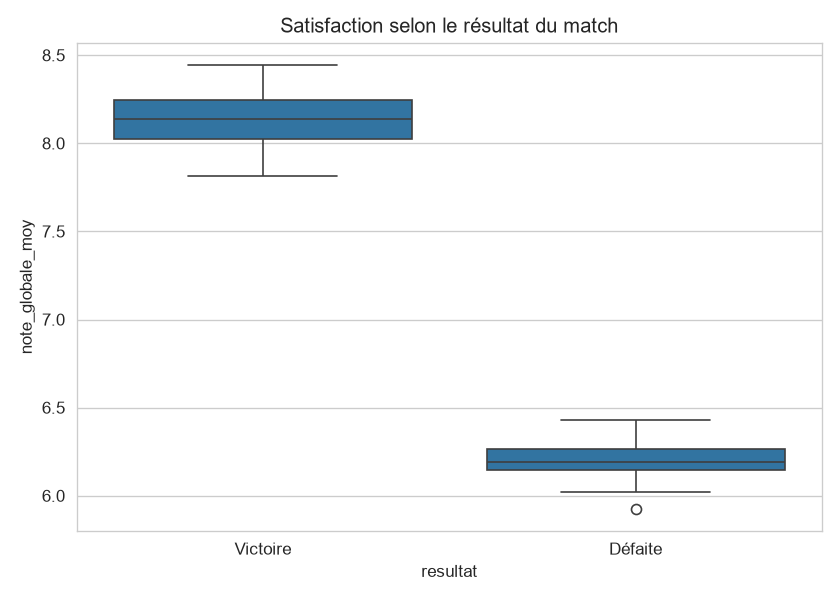
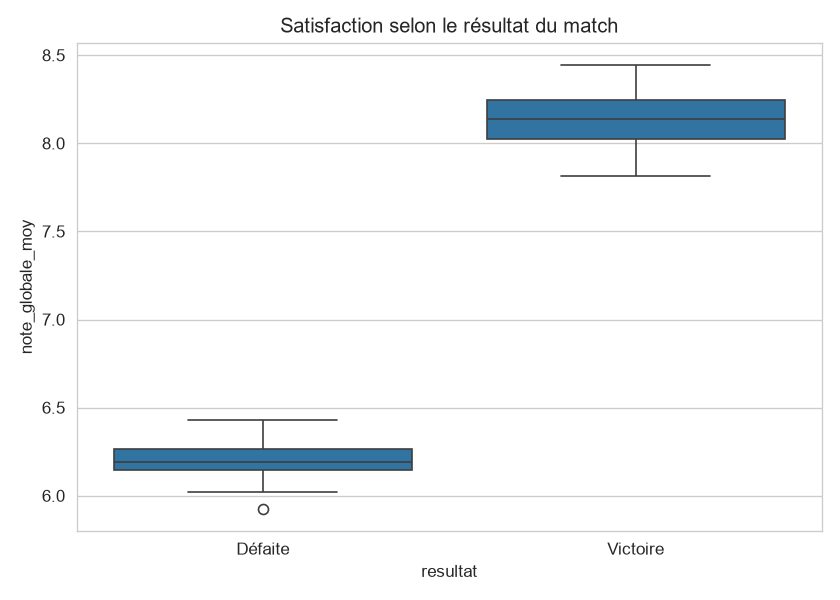
docs: finalize NOTES.md with digital funnel findings

diff --git a/NOTES.md b/NOTES.md
@@ -13,13 +13,23 @@ débouche sur des recommandations concrètes pour un dirigeant du club.
 ## Démarche
 
 1. Ingestion de toutes les sources fournies (billetterie, scans, boutique,
-   contacts, calendrier, résultats) + sources externes (météo, vacances
-   scolaires, classement EuroLeague) dans une architecture en couches
-   bronze / silver / gold (DuckDB).
+   contacts, calendrier, résultats, sessions/événements web, campagnes) +
+   sources externes (météo, vacances scolaires, classement EuroLeague,
+   population) dans une architecture en couches bronze / silver / gold
+   (DuckDB).
 2. Construction d'une table de faits `gold.fact_match` : une ligne par
    match à domicile (41 matchs), avec taux de remplissage, taux de
-   présence réelle, classement avant-match, contexte temporel et météo.
-3. Exploration statistique et visuelle (`analysis/exploration.ipynb`).
+   présence réelle, taux d'annulation, classement avant-match, contexte
+   temporel et météo.
+3. Exploration statistique et visuelle (`analysis/exploration.ipynb`, 13
+   sections), avec vérification systématique des hypothèses avant
+   conclusion (pas de corrélation acceptée sans test des explications
+   alternatives).
+4. Modèle de régression pour confirmer et quantifier les facteurs
+   identifiés, et analyse du funnel e-commerce / performance des
+   campagnes (branches `experiment/*`, mergées dans `main`).
+5. Dashboard autonome (`dashboard/dashboard.html`) synthétisant les
+   résultats pour un public non-technique.
 
 ## Chiffres clés
 
@@ -28,72 +38,123 @@ débouche sur des recommandations concrètes pour un dirigeant du club.
   (Betclic ÉLITE) 74.6%
 - **Facteur le plus discriminant : le classement de l'adversaire.** Le
   taux de remplissage chute nettement à mesure que l'adversaire est mal
-  classé (~90% face à un adversaire du haut du classement, ~65% face à un
-  adversaire en bas de tableau) — tendance nette sur les 41 matchs.
+  classé (~90% face à un top adversaire, ~65% face à un adversaire en bas
+  de tableau) : confirmé par le modèle de régression comme feature la
+  plus influente, de loin.
 - **Effet jour de semaine** : le dimanche est systématiquement le jour le
   plus faible (74.8% de moyenne sur 10 matchs), contre ~81-82% les mardis
   et jeudis.
 - **Effet vacances scolaires** (vérifié, pas un artefact de calendrier) :
-  les matchs joués pendant les vacances scolaires remplissent moins bien
-  (75.2%) que hors vacances (81%). Le rang moyen des adversaires est
-  comparable dans les deux groupes (9.6 vs 10.1) — l'effet n'est donc pas
-  expliqué par une programmation d'adversaires plus faibles pendant les
-  vacances.
+  75.2% pendant les vacances vs 81% hors vacances. Rang moyen des
+  adversaires comparable dans les deux groupes (9.6 vs 10.1).
+- **Météo : aucun effet mesurable** (corrélation 0.04 avec la température,
+  0.02 avec les précipitations).
+- **Horaire du match : pas un facteur indépendant.** Un écart apparent
+  après-midi/soirée s'est révélé confondu avec l'effet jour de semaine
+  (71% des matchs d'après-midi sont des dimanches).
+- **Annulations corrélées à la demande** (0.62) : les matchs à forte
+  affluence attendue génèrent proportionnellement plus d'achats annulés,
+  bien que l'ampleur reste modeste en absolu (0.2% à 1.8% du volume).
+- **Satisfaction expliquée par le résultat sportif, pas le remplissage** :
+  8.14/10 en victoire contre 6.20/10 en défaite. Le remplissage et la
+  satisfaction semblaient corrélés (-0.38) mais sont en réalité deux
+  conséquences distinctes du niveau de l'adversaire (la victoire étant
+  elle-même corrélée à -0.45 avec le remplissage).
+- **Géographie du bassin de fans** : les 18e et 19e arrondissements
+  affichent la plus forte pénétration (68 et 63 contacts pour 1000
+  habitants), cohérent avec la proximité de l'Adidas Arena. Plusieurs
+  communes de petite couronne (Poissy, Saint-Ouen, Villejuif) ressortent
+  aussi fortement.
+- **Modèle de régression (Ridge, LOO-CV)** : MAE de 8.3% (erreur relative)
+  — solide pour 41 observations. Confirme statistiquement que le
+  classement adversaire domine largement les autres features.
+- **Funnel digital et campagnes** : les canaux propriétaires (SMS,
+  newsletter, Google Ads payant) convertissent 3x mieux (~22.5%) que
+  l'organique et le social (~6.5-7%), malgré un volume de trafic bien
+  plus faible. Le SMS surperforme l'email en engagement (38.4%
+  d'ouverture, 34.5% de clic, contre 21.3%/22.6% pour l'email) tout en
+  convertissant aussi bien que la newsletter.
 
 ## Réponse à la question métier
 
 Les matchs qui sous-performent le plus nettement partagent un point commun
-clair : un adversaire mal classé au moment du match (ex. Dijon, Saint-Quentin,
-LDLC ASVEL Villeurbanne — tous entre 40% et 60% de remplissage). Le
-championnat national remplit structurellement moins bien que l'EuroLeague,
-et le dimanche ainsi que les périodes de vacances scolaires sont des
-créneaux à surveiller, indépendamment de la force de l'adversaire.
+clair : un adversaire mal classé au moment du match (ex. Dijon,
+Saint-Quentin, LDLC ASVEL Villeurbanne. Tous entre 40% et 60% de
+remplissage), confirmé à la fois par l'analyse descriptive et par un
+modèle statistique. Le championnat national remplit structurellement
+moins bien que l'EuroLeague, et le dimanche ainsi que les périodes de
+vacances scolaires sont des créneaux à surveiller, indépendamment de la
+force de l'adversaire. Trois enseignements complémentaires enrichissent
+le tableau : les matchs premium génèrent plus d'annulations (paradoxe du
+succès), la satisfaction du public dépend du résultat sportif et non du
+remplissage, et les canaux marketing propriétaires (SMS notamment)
+convertissent nettement mieux que l'acquisition organique/sociale : un
+levier digital directement activable pour les campagnes ciblées.
 
 ### Recommandations actionnables
 
-1. **Tarification dynamique par force d'adversaire** : envisager une
-   politique tarifaire plus agressive (promotions, offres groupées) pour
-   les matchs contre des adversaires classés au-delà de la 15e place, où
-   l'attractivité sportive seule ne suffit pas à remplir la salle.
+1. **Tarification dynamique par force d'adversaire** : politique tarifaire
+   plus agressive (promotions, offres groupées) pour les matchs contre des
+   adversaires classés au-delà de la 15e place.
 2. **Campagnes ciblées sur les dimanches et les périodes de vacances
-   scolaires** : ces créneaux sous-performent de façon récurrente et
-   indépendante du calendrier sportif — un axe marketing autonome plutôt
-   qu'un simple effet de programmation.
+   scolaires**, via SMS en priorité vu son meilleur taux d'engagement
+   (38.4% d'ouverture contre 21.3% pour l'email).
 3. **Capitaliser sur l'attrait EuroLeague** dans la communication et le
-   packaging des abonnements : l'écart de 8 points avec le championnat
-   suggère un effet de marque à exploiter davantage.
+   packaging des abonnements : écart de 8 points avec le championnat.
+4. **Politique d'annulation adaptée aux matchs à forte demande** :
+   envisager des frais d'annulation modulés ou une liste d'attente pour
+   récupérer les places libérées tardivement sur les matchs premium.
+5. **Marketing géolocalisé** : intensifier la présence dans les zones à
+   forte pénétration existante (nord-est parisien, Poissy, Saint-Ouen)
+   pour consolider la base, et cibler l'acquisition dans les zones à fort
+   potentiel démographique mais faible pénétration actuelle.
+6. **Concentrer le budget d'acquisition payante** sur les canaux à forte
+   conversion (SMS, newsletter, Google Ads) plutôt que sur l'élargissement
+   de l'audience organique/sociale, déjà large mais peu convertissante.
 
 ## Limites
 
-- **41 matchs seulement** : certains découpages (ex. par jour de semaine)
-  reposent sur de petits échantillons — un seul match un vendredi, par
-  exemple. Les tendances par compétition et par classement adversaire
-  sont plus robustes (15 à 19 matchs par groupe).
-- **L'effet "vacances scolaires" est observé et vérifié comme non expliqué
-  par le classement adversaire, mais sa cause reste ouverte** (moins
-  d'abonnés disponibles ? changement de profil de public ?) — une piste
-  pour une future analyse croisée avec les données de satisfaction ou de
-  profil des acheteurs.
+- **41 matchs seulement** : certains découpages reposent sur de petits
+  échantillons (un seul match un vendredi, par exemple). Le modèle de
+  régression sert surtout à confirmer et quantifier les facteurs déjà
+  identifiés par l'analyse descriptive, pas à prédire de façon fiable des
+  matchs hors de cette saison.
+- **Hypothèses testées et écartées, documentées par transparence** :
+  l'effet horaire (confondu avec le jour de semaine) et l'effet météo
+  (non significatif) ont été explorés puis abandonnés comme facteurs
+  explicatifs : inclus dans le notebook pour montrer la démarche complète,
+  pas seulement les résultats positifs.
+- **L'analyse satisfaction** porte sur ~7956 réponses `POST_MATCH`
+  uniquement (les enquêtes `GENERALE_MI_SAISON`/`GENERALE_FIN_SAISON`
+  n'ont pas de `match_id` et ne sont pas exploitables au niveau match).
+- **L'analyse géographique** couvre le bassin francilien : 25 codes
+  postaux sur 69 dans `silver.contacts` n'ont pas de correspondance dans
+  les référentiels de population (fans hors Île-de-France ou codes
+  fictifs issus des données de test).
+- **Le funnel digital concerne la boutique en ligne**, pas la billetterie
+  (deux systèmes de tracking distincts, GA4 vs plateforme de billetterie) :
+  les taux de conversion mesurés portent sur les achats de produits
+  dérivés, pas directement sur les billets de match.
 - **Qualité de données** : plusieurs anomalies détectées et corrigées dans
   le pipeline (2 fichiers billetterie JSON corrompus sur 358, 1 fichier
   scan sans en-tête, 1 fichier scan vide, formats de date multiples dans
-  contacts et boutique) — détail complet dans `docs/data_quality.md`.
+  contacts et boutique). Détail complet dans `docs/data_quality.md`.
   Toutes les corrections sont documentées et automatisées, aucune donnée
   n'a été estimée ou inventée pour combler un manque.
-- **Modèle de prédiction** : envisagé mais non prioritaire au vu du temps
-  disponible et de la taille de l'échantillon (41 matchs) — les
-  corrélations observées ici (classement adversaire notamment) sont deja
-  fortes et interprétables sans modèle, ce qui limite le gain d'un modèle
-  formel pour ce livrable.
 
 ## Usage de l'IA
 
-Claude (Anthropic) a été utilisé tout au long du projet : conception de
-l'architecture (médaillon bronze/silver/gold), écriture et débogage des
+Claude (Anthropic) a été utilisé tout au long du projet : écriture et débogage des
 scripts d'ingestion et de transformation (Python/DuckDB/SQL), diagnostic
 d'anomalies de données (ex. remontée du bug `scan_20251017.csv` depuis un
-`taux_presence` incohérent en gold jusqu'à sa cause racine), et relecture
-de la structure d'analyse. Toutes les requêtes ont été exécutées et
-vérifiées manuellement sur les données réelles avant validation — aucun
-résultat n'a été utilisé sans être recalculé et confirmé sur le dataset
-complet.
+`taux_presence` incohérent en gold jusqu'à sa cause racine), conception et
+vérification des analyses statistiques (y compris le démêlage de la
+variable confondante victoire/défaite dans l'analyse satisfaction, et de
+l'effet horaire confondu avec le jour de semaine), construction du modèle
+de prédiction, de l'analyse du funnel digital, et du dashboard. Toutes les
+requêtes et tous les résultats ont été exécutés et vérifiés manuellement
+sur les données réelles avant validation. Aucun résultat n'a été utilisé
+sans être recalculé et confirmé sur le dataset complet, et plusieurs
+hypothèses initialement plausibles (effet horaire, corrélation
+satisfaction directe) ont été testées puis rejetées après vérification
+plutôt qu'acceptées telles quelles.
